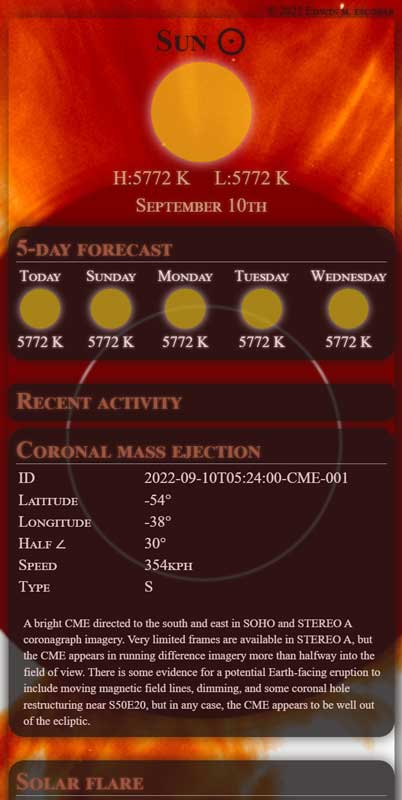
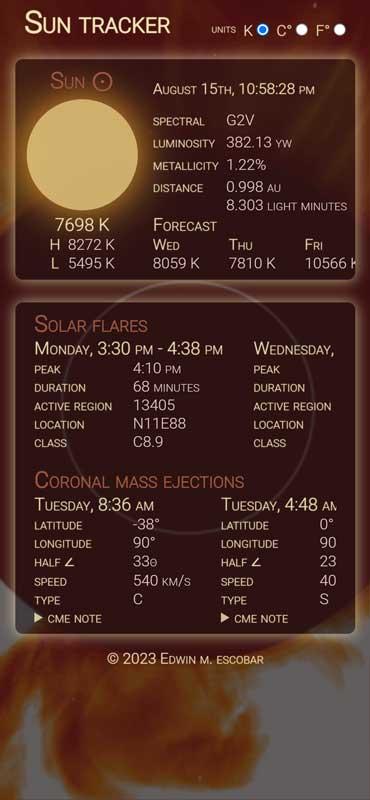
cleaned up & updated portfolio applications

diff --git a/src/assets/css/applications.css b/src/assets/css/applications.css
@@ -1,4 +1,4 @@
-/* screenshots | solo */
+/* solo applications */
 #address-book {
     background-image: url('../../assets/images/small/address-book.jpg');
 }
@@ -23,7 +23,7 @@
     background-image: url('../../assets/images/small/employee-tracker.jpg');
 }
 
-/* highlighted frontend project */
+/* highlight */
 #escowinart {
     background-image: url('../../assets/images/large/escowinart.jpg');
 }
@@ -36,7 +36,6 @@
     background-image: url('../../assets/images/small/fitness-logbook.jpg');
 }
 
-/* highlighted fullstack project */
 #job-tracker {
     background-image: url('../../assets/images/medium/job-tracker.jpg');
 }
@@ -55,6 +54,10 @@
 
 #portfolio-generator {
     background-image: url('../../assets/images/small/portfolio-generator.jpg');
+}
+
+#ratio-calculator {
+    background-image: url('../../assets/images/large/ratio-calculator.jpg');
 }
 
 #readme-generator {
@@ -81,7 +84,7 @@
     background-image: url('../../assets/images/small/weather-dashboard.jpg');
 }
 
-/* screenshots | collaborations */
+/* collaborative applications */
 #auction-house {
     background-image: url('../../assets/images/large/auction-house.jpg');
 }
@@ -142,10 +145,6 @@
         background-image: url('../../assets/images/medium/note-taker.jpg');
     }
 
-    /* #password-generator {
-        background-image: url('../../assets/images/medium/password-generator.jpg');
-    } */
-
     #portfolio-generator {
         background-image: url('../../assets/images/medium/portfolio-generator.jpg');
     }
@@ -158,9 +157,9 @@
         background-image: url('../../assets/images/medium/social-network-api.jpg');
     } */
 
-    /* #sun-tracker {
+    #sun-tracker {
         background-image: url('../../assets/images/medium/sun-tracker.jpg');
-    } */
+    }
 
     #team-profile-generator {
         background-image: url('../../assets/images/medium/team-profile-generator.jpg');

diff --git a/src/assets/data/index.js b/src/assets/data/index.js
@@ -201,15 +201,15 @@ const portfolioData = {
         highlight: true,
         collaboration: false,
       },
-      {
-        name: "Old portfolio",
-        id: "css-portfolio",
-        repo: "https://github.com/escowin/professional-portfolio",
-        liveUrl: "https://escowin.github.io/professional-portfolio",
-        languages: "js css html",
-        highlight: false,
-        collaboration: false,
-      },
+      // {
+      //   name: "Old portfolio",
+      //   id: "css-portfolio",
+      //   repo: "https://github.com/escowin/professional-portfolio",
+      //   liveUrl: "https://escowin.github.io/professional-portfolio",
+      //   languages: "js css html",
+      //   highlight: false,
+      //   collaboration: false,
+      // },
       {
         name: "Password generator",
         id: "password-generator",
@@ -265,7 +265,7 @@ const portfolioData = {
         repo: "https://github.com/escowin/sun-tracker",
         liveUrl: "https://escowin.github.io/sun-tracker",
         languages: "js css html",
-        dialects: "pwa webpack jquery moment",
+        dialects: "node webpack dayjs jquery jest",
         database: "api",
         highlight: false,
         collaboration: false,
@@ -281,6 +281,14 @@ const portfolioData = {
         highlight: false,
         collaboration: true,
       },
+      {
+        name: "Ratio calculator",
+        id: "ratio-calculator",
+        repo: "https://github.com/escowin/ratio-calculator",
+        liveUrl: "https://escowin.github.io/ratio-calculator",
+        languages: "js css html",
+        dialects: "node webpack jest"
+      }
     ],
     Backend: [
       {
